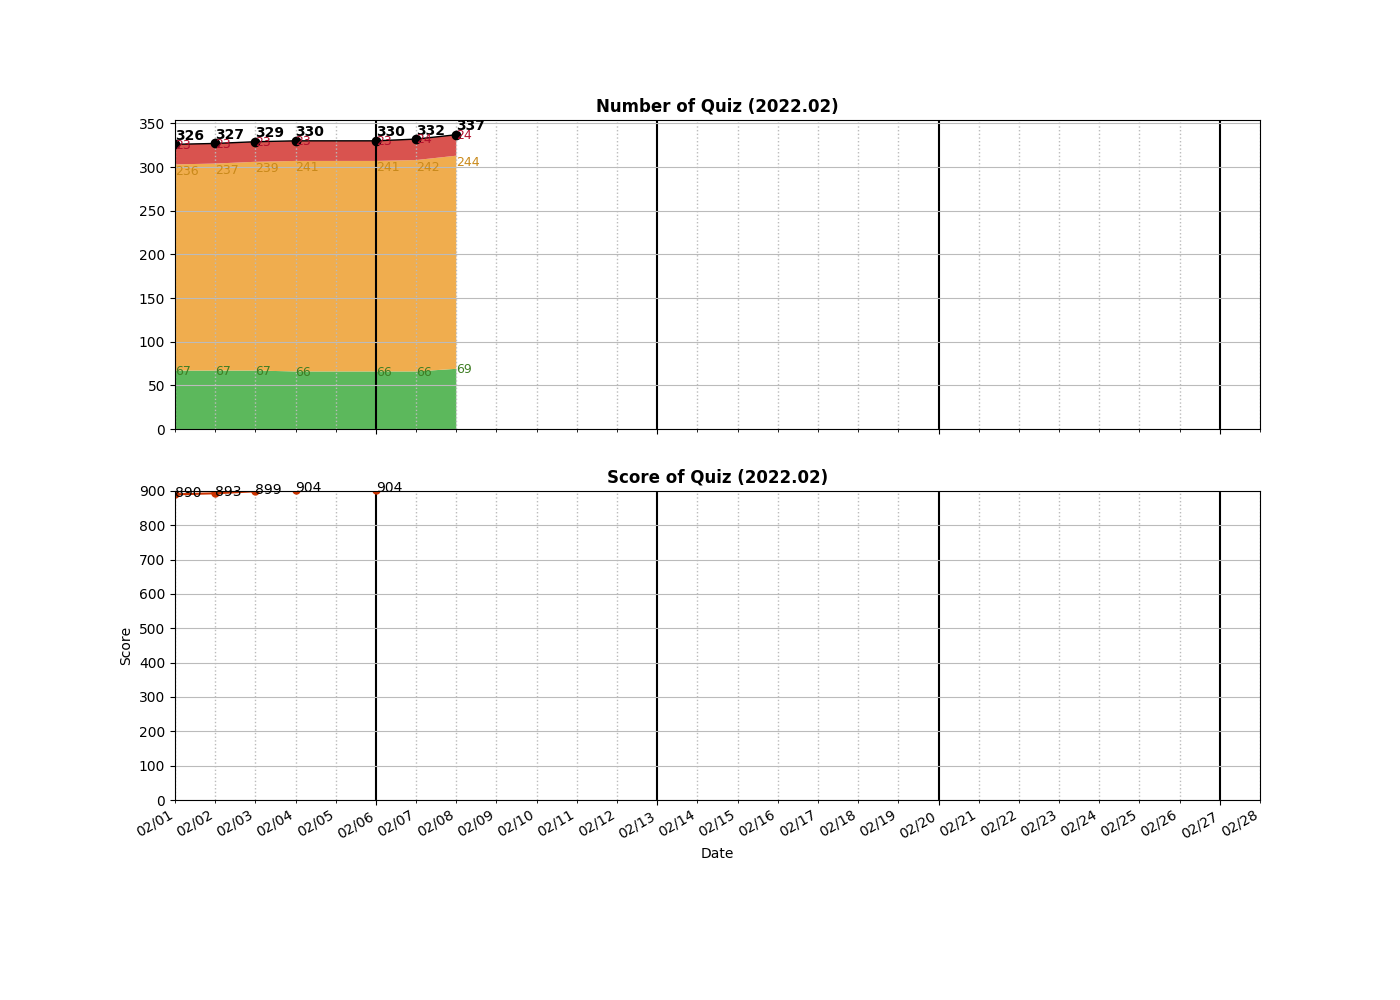
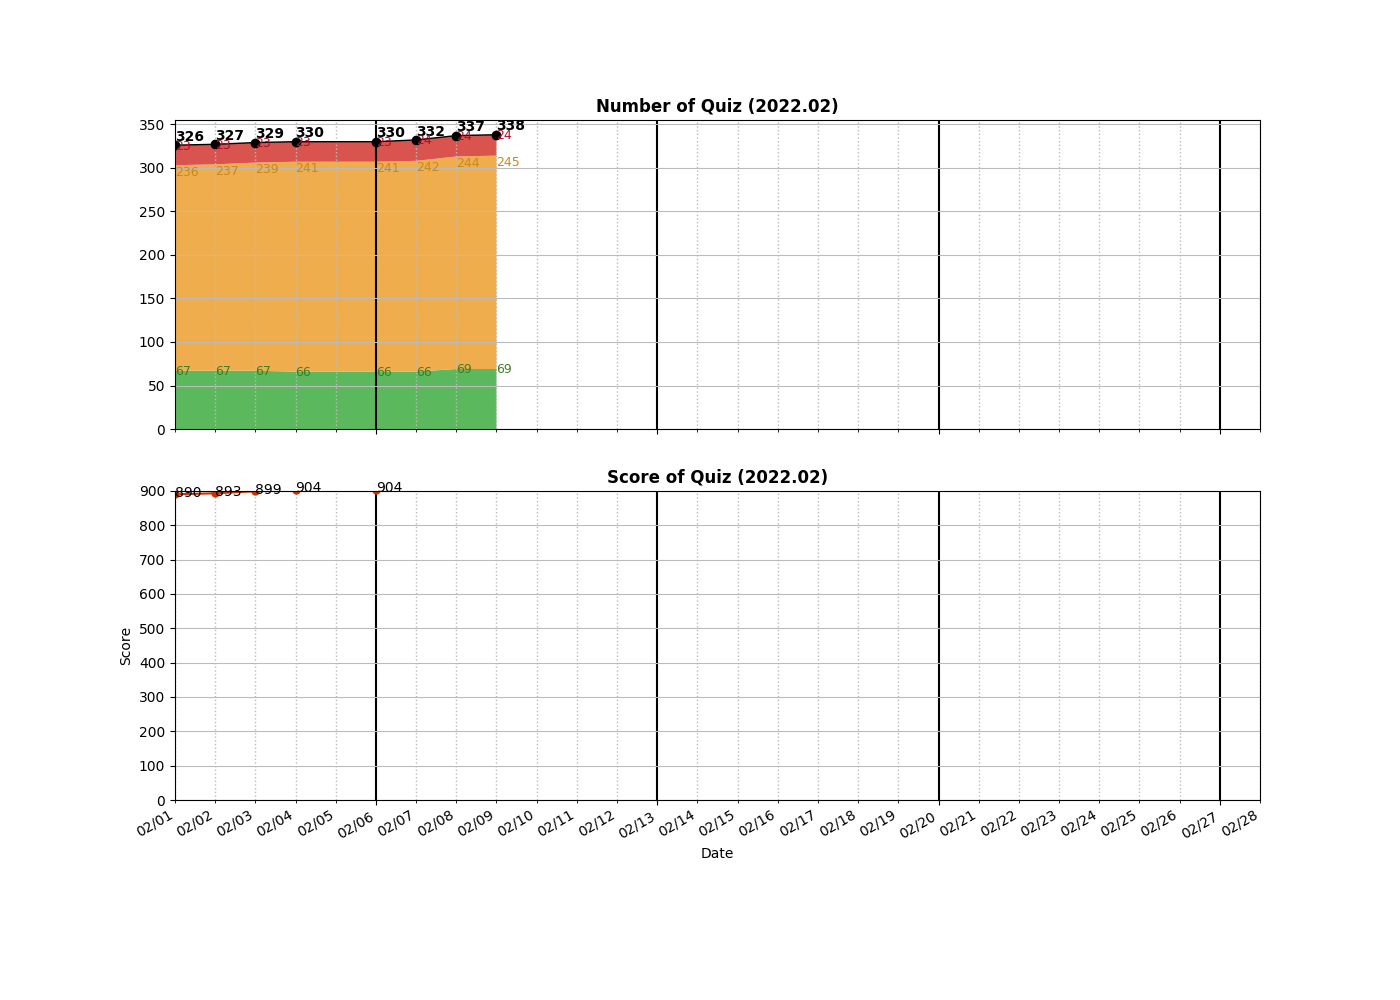
Added __0238__Product of Array Except Self.py

Changed region(s): [[0.1229, 0.124, 0.3686, 0.434], [0.0921, 0.186, 0.1229, 0.217]]

diff --git a/algo/Array/__0238__Product of Array Except Self.py b/algo/Array/__0238__Product of Array Except Self.py
@@ -1,0 +1,25 @@
+class Solution:
+    
+    # Prefix Sum (from front and tail) [O(n): 15%]
+    def productExceptSelf(self, nums: List[int]) -> List[int]:
+        frontProducts = []
+        tailProducts = []
+        
+        product = 1
+        for num in nums:
+            product *= num
+            frontProducts.append(product)
+        product = 1
+        for i in range(len(nums)-1, -1, -1):
+            product *= nums[i] 
+            tailProducts.append(product)
+        
+        res = []
+        for i in range(len(nums)):
+            product = 1
+            if i > 0:
+                product *= frontProducts[i-1]
+            if i < len(nums)-1:
+                product *= tailProducts[len(nums) - i - 1 - 1]
+            res.append(product)
+        return res 

diff --git a/README.md b/README.md
@@ -7,6 +7,7 @@ algo
 │   ├── __0057__Insert Interval.py
 │   ├── __0122__Best Time to Buy and Sell Stock II.py
 │   ├── __0134__Gas Station.py
+│   ├── __0238__Product of Array Except Self.py
 │   ├── __0243__Shortest Word Distance.py
 │   ├── __0252__Meeting Rooms.py
 │   ├── __0253__Meeting Rooms II.py
@@ -379,7 +380,7 @@ algo
 └── _Template
     └── BinarySearch.py
 
-28 directories, 350 files
+28 directories, 351 files
 
 =====================================
 ============= Local Repo ============
@@ -519,6 +520,7 @@ __0234__Palindrome Linked List.py
 __0235__Lowest Common Ancestor of a Binary Search Tree.py
 __0236__Lowest Common Ancestor of a Binary Tree.py
 __0237__Delete Node in a Linked List.py
+__0238__Product of Array Except Self.py
 __0239__Sliding Window Maximum.py
 __0240__Search a 2D Matrix II.py
 __0241__Different Ways to Add Parentheses.py
@@ -722,7 +724,7 @@ __2154__Keep Multiplying Found Values by Two.py
 __2155__All Divisions With the Highest Score of a Binary Array.py
 __2156__Find Substring With Given Hash Value.py
 =====================================
-Num of Python Practice:  337
+Num of Python Practice:  338
 
 
 =====================================
@@ -863,6 +865,7 @@ Num of Python Practice:  337
  0235 Lowest Common Ancestor of a Binary Search Tree
  0236 Lowest Common Ancestor of a Binary Tree
  0237 Delete Node in a Linked List
+ 0238 Product of Array Except Self
  0239 Sliding Window Maximum
  0240 Search a 2D Matrix II
  0241 Different Ways to Add Parentheses
@@ -1067,10 +1070,10 @@ Num of Python Practice:  337
  2156 Find Substring With Given Hash Value
 =====================================
 Solved / Total (Easy)  :   69 /  545
-Solved / Total (Medium):  244 / 1156
+Solved / Total (Medium):  245 / 1156
 Solved / Total (Hard)  :   24 /  466
-Solved / Total (All)   :  337 / 2167
-Total Score            :  921
+Solved / Total (All)   :  338 / 2167
+Total Score            :  924
 =====================================
 
 ```
